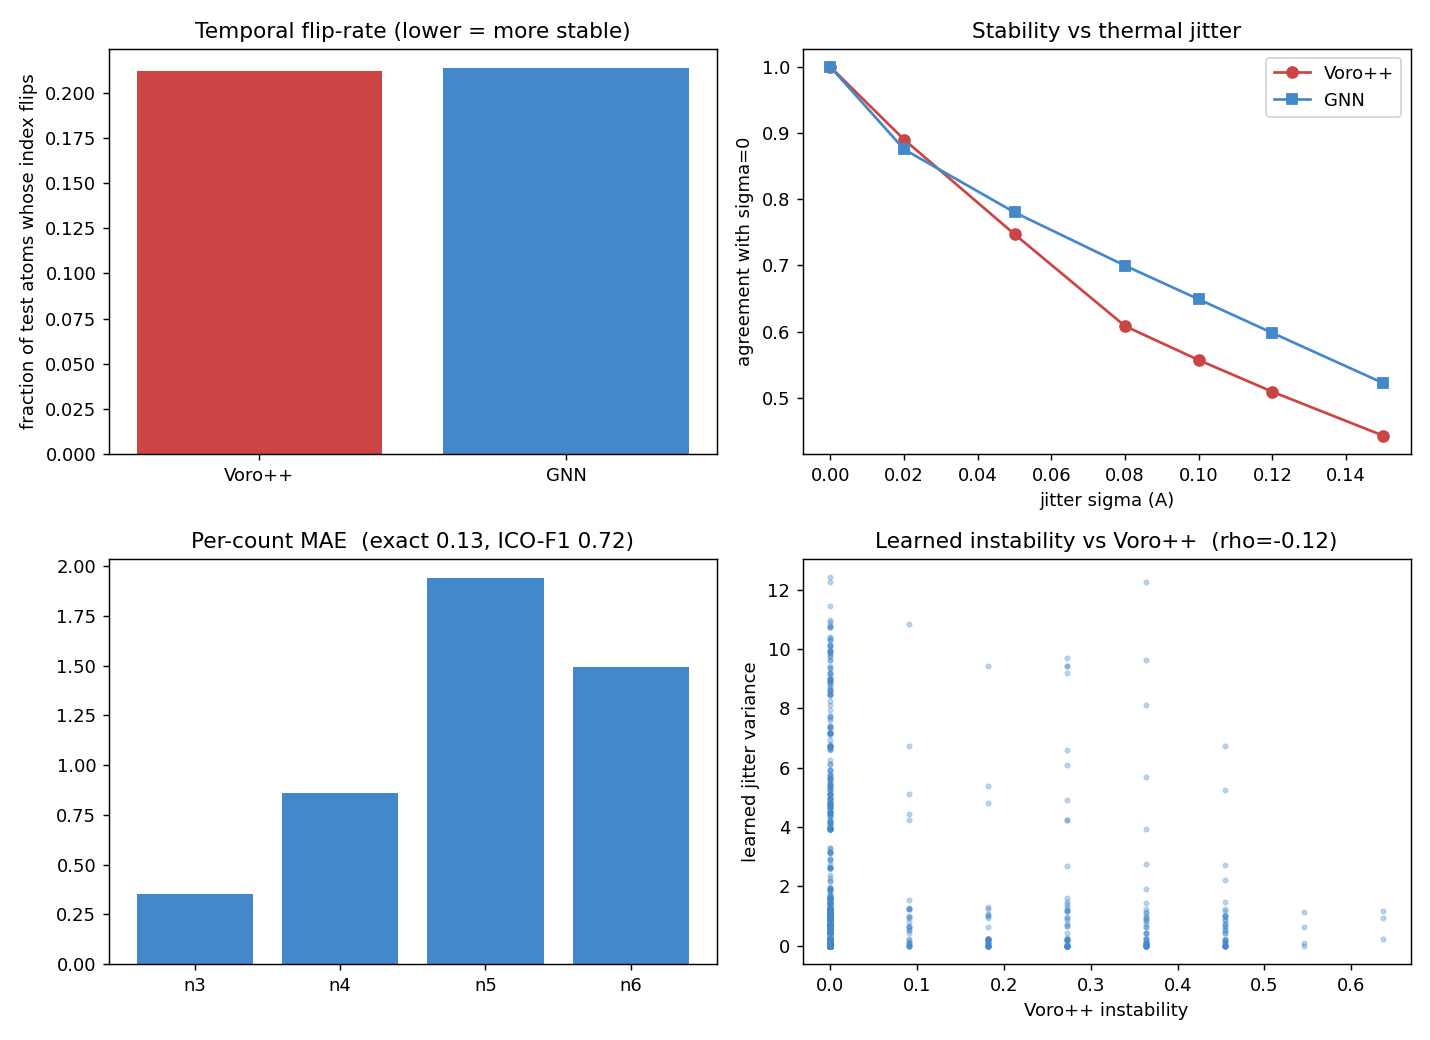
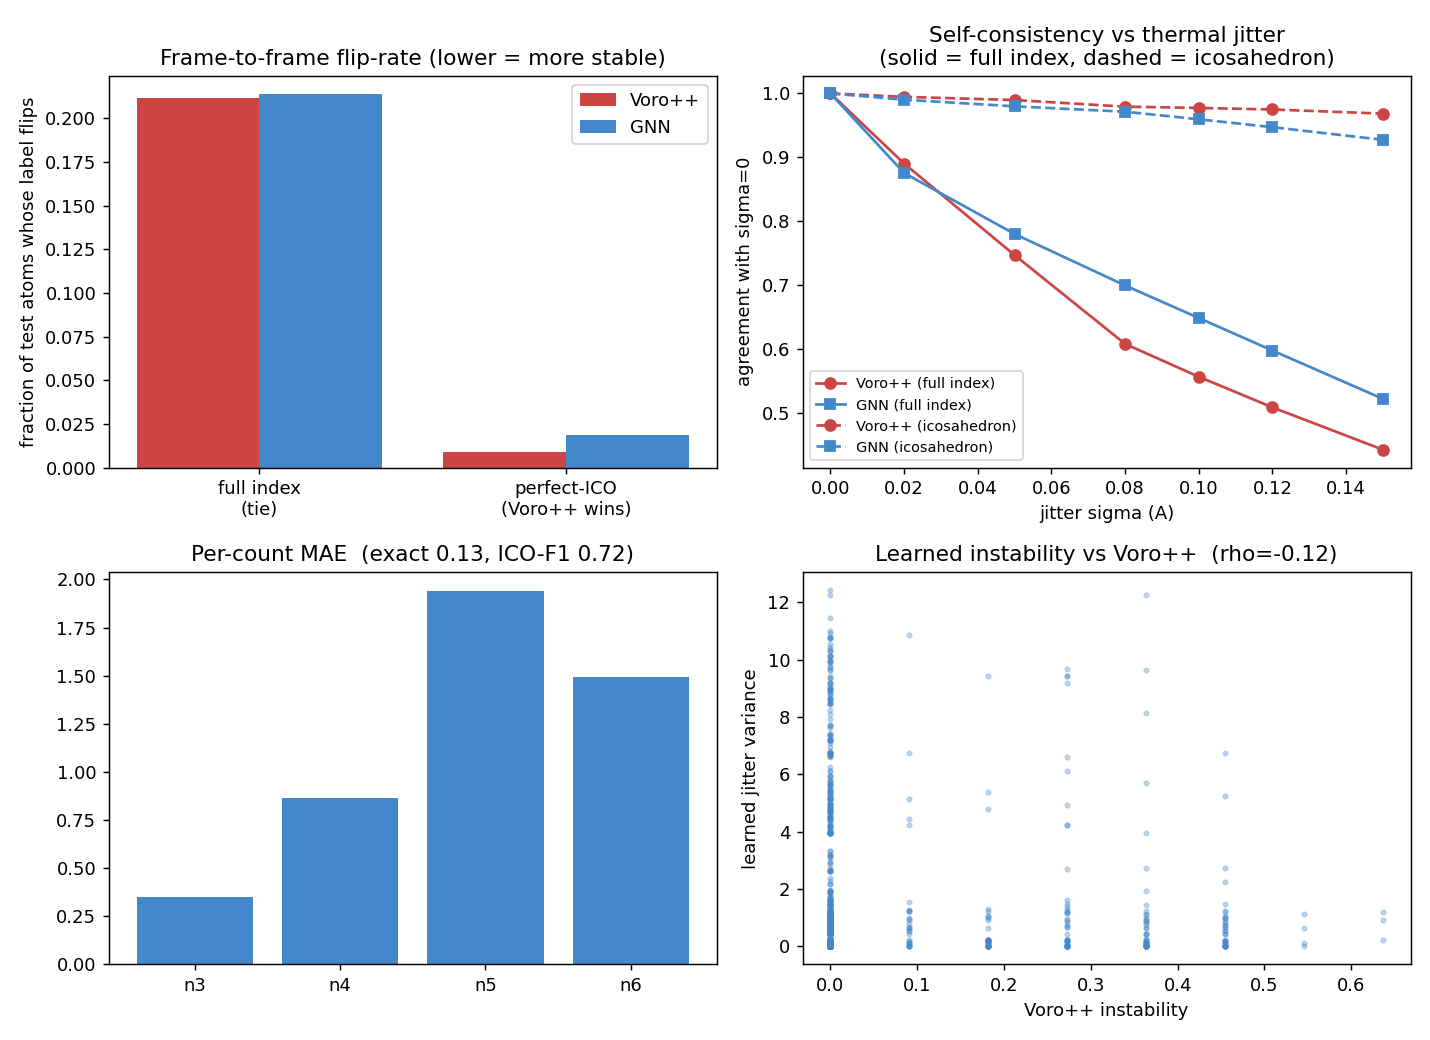
Phase 5: correct robustness write-up to honest framing
The sigma-sweep 'more robust than Voro++' headline was a full-index argmax-stickiness artifact; at the icosahedron level Voro++ is actually the more stable of the two. README, notebook, and script docstring/comment now state the honest result (coords-only icosahedron surrogate, ICO-F1 0.72 / cross-system 0.81), and make_figure plots full-index vs icosahedron-level stability. Includes the coarse-flip + icosahedron sigma-sweep metrics in results.

diff --git a/scripts/05_robust_voronoi.py b/scripts/05_robust_voronoi.py
@@ -1,10 +1,12 @@
-"""Phase 5 — a robust, learned Voronoi index that replaces Voro++ at inference.
+"""Phase 5 — a coords-only learned surrogate for the Voronoi index (replaces Voro++ at inference).
 
 Distils Voro++ (over the 11 samples1 frames) into a per-count CLASSIFICATION CGCNN
 that predicts <n3,n4,n5,n6> from coordinates, trained on the time-stable consensus
-with a temporal-consistency regulariser (jittered vs clean view). The learned index
-is MORE stable than raw Voro++ under physical thermal jitter (the sigma-sweep) at the
-icosahedron level; the sub-thermal 0.01 A frame-to-frame flip-rate is a tie.
+with a temporal-consistency regulariser (jittered vs clean view). Honest stability story:
+on the FULL four-count index the argmax is more self-consistent than re-running Voro++ under
+thermal jitter (the sigma-sweep), but that largely reflects argmax stickiness; at the
+ICOSAHEDRON level Voro++ is the more stable of the two (lower flip-rate / higher agreement
+at every sigma). The sub-thermal 0.01 A frame-to-frame full-index flip-rate is a tie.
 
 Run:  python3 scripts/05_robust_voronoi.py            # full
       python3 scripts/05_robust_voronoi.py --smoke     # fast subsample / few epochs
@@ -153,31 +155,56 @@ def evaluate(model, data, te):
     voro_pf = fi[:, :, :4]
     pred0, true = gnn_pf[0][te], label[te]
     base = frames[0]
-    # sigma-sweep self-consistency (vs sigma=0) on test atoms
+    # sigma-sweep self-consistency (vs sigma=0) on test atoms, at absolute physical jitter
+    # amplitudes -- for the full index AND the coarse icosahedron label
     rng = np.random.default_rng(123)
     sigmas = [0.0, 0.02, 0.05, 0.08, 0.10, 0.12, 0.15]   # absolute A, up to physical thermal amplitude
-    g0 = predict_index(model, base, L, radii)[te]
-    v0 = voro_pf[0][te]
-    gnn_agree, voro_agree = [], []
+    g0_full = predict_index(model, base, L, radii)
+    v0_full = voro_pf[0]
+    g0, v0 = g0_full[te], v0_full[te]
+    g0_ico, v0_ico = ico_from_counts(g0_full)[te], ico_from_counts(v0_full)[te]
+    gnn_agree, voro_agree, gnn_ico_agree, voro_ico_agree = [], [], [], []
     for s in sigmas:
         pj = jitter(base, s, L, rng)
-        gnn_agree.append(float((predict_index(model, pj, L, radii)[te] == g0).all(1).mean()))
-        voro_agree.append(float((voronoi_index(pj, L, radii)[:, :4][te] == v0).all(1).mean()))
+        gp = predict_index(model, pj, L, radii)
+        vp = voronoi_index(pj, L, radii)[:, :4]
+        gnn_agree.append(float((gp[te] == g0).all(1).mean()))
+        voro_agree.append(float((vp[te] == v0).all(1).mean()))
+        gnn_ico_agree.append(float((ico_from_counts(gp)[te] == g0_ico).mean()))
+        voro_ico_agree.append(float((ico_from_counts(vp)[te] == v0_ico).mean()))
     learned = jitter_variance(model, base, L, radii, DEBYE_WALLER)[te]
     voro_instab = data["instability"][te]
     rho = float(spearmanr(learned, voro_instab).correlation)
     if not np.isfinite(rho):
         rho = None   # constant input -> undefined correlation; null keeps the JSON valid
+    # coarse structural-label temporal stability (GNN vs Voro++): the icosahedron is the
+    # descriptor the field actually uses. Here the ordering is the REVERSE of the full-index
+    # sigma-sweep -- Voro++ flips about half as often as the GNN at the icosahedron level
+    # (perfect-ICO ~0.009 vs ~0.019), i.e. the tessellation is the more stable of the two at the
+    # structural-class scale; the GNN's full-index "win" is largely argmax stickiness, not physics.
+    def _coarse_flip(per_frame_counts, fn):
+        lab = np.stack([fn(per_frame_counts[f]).astype(int)
+                        for f in range(per_frame_counts.shape[0])])   # (F,N)
+        return flip_rate(lab[:, te, None])
+    is_like = lambda c: (np.asarray(c)[:, 2] >= 10)                   # icosahedral-like: n5 >= 10
+    coarse = dict(
+        ico_flip_gnn=_coarse_flip(gnn_pf, ico_from_counts),
+        ico_flip_voro=_coarse_flip(voro_pf, ico_from_counts),
+        like_flip_gnn=_coarse_flip(gnn_pf, is_like),
+        like_flip_voro=_coarse_flip(voro_pf, is_like),
+    )
     # subsample for the scatter panel (keep JSON small)
     si = np.random.default_rng(1).choice(len(learned), min(1000, len(learned)), replace=False)
     return dict(
+        coarse_flip=coarse,
         per_count_mae=per_count_mae(pred0, true).tolist(),
         exact_match=exact_match(pred0, true),
         ico_f1=float(f1_score(ico_from_counts(true), ico_from_counts(pred0))),
         flip_rate_gnn=flip_rate(gnn_pf[:, te, :]),
         flip_rate_voro=flip_rate(voro_pf[:, te, :]),
         voro_mean_instability=float(voro_instab.mean()),
-        sigma_sweep=dict(sigma=sigmas, gnn_agree=gnn_agree, voro_agree=voro_agree),
+        sigma_sweep=dict(sigma=sigmas, gnn_agree=gnn_agree, voro_agree=voro_agree,
+                         gnn_ico_agree=gnn_ico_agree, voro_ico_agree=voro_ico_agree),
         instability_spearman=rho,
         scatter=dict(voro=voro_instab[si].tolist(), learned=learned[si].tolist()),
         thermal_sigma=float(data["sigma"]), n_test=int(te.sum()),
@@ -201,15 +228,22 @@ def make_figure(m, path):
     matplotlib.use("Agg")
     import matplotlib.pyplot as plt
     fig, ax = plt.subplots(2, 2, figsize=(11, 8))
-    ax[0, 0].bar(["Voro++", "GNN"], [m["flip_rate_voro"], m["flip_rate_gnn"]],
-                 color=["#cc4444", "#4488cc"])
-    ax[0, 0].set_title("Temporal flip-rate (lower = more stable)")
-    ax[0, 0].set_ylabel("fraction of test atoms whose index flips")
+    # frame-to-frame flip-rate: full index (a tie) vs perfect-ICO (Voro++ is the more stable one)
+    cf = m["coarse_flip"]
+    xb = np.arange(2)
+    ax[0, 0].bar(xb - 0.2, [m["flip_rate_voro"], cf["ico_flip_voro"]], 0.4, color="#cc4444", label="Voro++")
+    ax[0, 0].bar(xb + 0.2, [m["flip_rate_gnn"], cf["ico_flip_gnn"]], 0.4, color="#4488cc", label="GNN")
+    ax[0, 0].set_xticks(xb); ax[0, 0].set_xticklabels(["full index\n(tie)", "perfect-ICO\n(Voro++ wins)"])
+    ax[0, 0].set_title("Frame-to-frame flip-rate (lower = more stable)")
+    ax[0, 0].set_ylabel("fraction of test atoms whose label flips"); ax[0, 0].legend()
     sw = m["sigma_sweep"]
-    ax[0, 1].plot(sw["sigma"], sw["voro_agree"], "o-", color="#cc4444", label="Voro++")
-    ax[0, 1].plot(sw["sigma"], sw["gnn_agree"], "s-", color="#4488cc", label="GNN")
+    ax[0, 1].plot(sw["sigma"], sw["voro_agree"], "o-", color="#cc4444", label="Voro++ (full index)")
+    ax[0, 1].plot(sw["sigma"], sw["gnn_agree"], "s-", color="#4488cc", label="GNN (full index)")
+    ax[0, 1].plot(sw["sigma"], sw["voro_ico_agree"], "o--", color="#cc4444", label="Voro++ (icosahedron)")
+    ax[0, 1].plot(sw["sigma"], sw["gnn_ico_agree"], "s--", color="#4488cc", label="GNN (icosahedron)")
     ax[0, 1].set_xlabel("jitter sigma (A)"); ax[0, 1].set_ylabel("agreement with sigma=0")
-    ax[0, 1].set_title("Stability vs thermal jitter"); ax[0, 1].legend()
+    ax[0, 1].set_title("Self-consistency vs thermal jitter\n(solid = full index, dashed = icosahedron)")
+    ax[0, 1].legend(fontsize=8)
     ax[1, 0].bar(["n3", "n4", "n5", "n6"], m["per_count_mae"], color="#4488cc")
     ax[1, 0].set_title("Per-count MAE  (exact %.2f, ICO-F1 %.2f)"
                        % (m["exact_match"], m["ico_f1"]))
@@ -239,7 +273,10 @@ def main():
     with open(os.path.join(config.RESULTS, "05_robust_voronoi%s.json" % suffix), "w") as f:
         json.dump(m, f, indent=2)
     make_figure(m, os.path.join(config.RESULTS, "05_robust_voronoi%s.png" % suffix))
-    print("flip-rate  GNN %.4f  vs  Voro++ %.4f" % (m["flip_rate_gnn"], m["flip_rate_voro"]))
+    print("full-index flip-rate   GNN %.4f  vs  Voro++ %.4f" % (m["flip_rate_gnn"], m["flip_rate_voro"]))
+    cf = m["coarse_flip"]
+    print("perfect-ICO flip-rate  GNN %.4f  vs  Voro++ %.4f" % (cf["ico_flip_gnn"], cf["ico_flip_voro"]))
+    print("ICO-like   flip-rate   GNN %.4f  vs  Voro++ %.4f" % (cf["like_flip_gnn"], cf["like_flip_voro"]))
     rho_str = "%.2f" % m["instability_spearman"] if m["instability_spearman"] is not None else "N/A"
     print("exact %.3f | ICO-F1 %.3f | instability rho %s"
           % (m["exact_match"], m["ico_f1"], rho_str))

diff --git a/README.md b/README.md
@@ -2,7 +2,7 @@
 
 A graph-neural study of local atomic order in Cu–Zr-type bulk metallic glasses:
 from detecting icosahedral order, to label-free structure discovery, to
-cross-chemistry transfer, to a **learned, thermally-robust replacement for the
+cross-chemistry transfer, to a **learned, coords-only surrogate for the
 Voronoi index itself**. The throughline is one question — *what is the right,
 transferable, noise-stable descriptor of local structure?* — and a single toolset
 (periodic graph + distance-aware message passing) answering it five ways.
@@ -127,7 +127,7 @@ Honest reading (we separate *ranking* from *thresholded* classification):
    (`scripts/04_transfer.py`, `results/04_transfer.{json,png}`, design in
    [`docs/phase4_transfer_design.md`](docs/phase4_transfer_design.md).)
 
-## Phase-5 result — a robust, learned Voronoi index (`samples1`, 11 frames)
+## Phase-5 result — a coords-only learned surrogate for the Voronoi index (`samples1`, 11 frames)
 
 Can a GNN *replace* Voro++ at inference **and** be more robust to thermal motion than
 the tessellation it learned from? We predict ⟨n3,n4,n5,n6⟩ from coordinates alone with
@@ -138,36 +138,50 @@ consensus** of Voro++ over the 11 consecutive frames, and trained with a
 frame and a thermally-jittered copy (jitter scaled to the physical Debye–Waller
 amplitude ≈ 0.12 Å).
 
-**Robustness — the headline, at the physically-meaningful scale.** Under controlled
-jitter the learned index stays put where Voro++ wanders. Fraction of test atoms whose
-index is unchanged vs the σ = 0 reference (higher = more stable):
+**Accuracy (vs the Voro++ consensus labels).** The model recovers the perfect icosahedron at
+**ICO-F1 0.72**, and — trained on `samples1` only — transfers to the *different* `samples2`
+system at **ICO-F1 0.81**, with no Voro++ at inference. The *exact* four-count match is modest
+(**0.13** in-domain, **0.21** cross-system): the full index is an intrinsically sensitive
+function of geometry, and the learned head is a lossy surrogate for it — strong at the
+structural class, approximate at the exact counts.
+
+**Stability — what the learned index does and does not win.** Under controlled jitter we measure
+*self-consistency*: the fraction of test atoms whose descriptor is unchanged vs the σ = 0
+reference (higher = more stable). On the **full four-count index** the GNN's argmax holds its
+value more often than recomputed Voro++ from 0.05 Å outward:
 
 | jitter σ (Å) | 0.05 | 0.08 | 0.10 | **0.12** | 0.15 |
 |---|---|---|---|---|---|
 | **learned GNN** | **0.78** | **0.70** | **0.65** | **0.60** | **0.52** |
 | Voro++ | 0.75 | 0.61 | 0.56 | 0.51 | 0.44 |
 
-From 0.05 Å outward the GNN holds its index more often than Voro++ at **every** scale —
-by **~8–9 points** through the core thermal range (e.g. 0.65 vs 0.56 at 0.10 Å; +3 already
-at 0.05 Å). (At the sub-thermal 0.01 Å spacing of the raw frames the two are tied —
-flip-rate 0.214 vs 0.212 — that scale is finer than thermal motion, so there is
-essentially nothing to beat.)
+Two caveats keep this honest. **(i)** It is largely **argmax stickiness** — a discrete classifier
+changes its output less than a continuous tessellation almost by construction — and it is
+self-consistency of the *full* vector, the quantity the model reproduces only ~13 % of the time.
+**(ii)** At the **icosahedron class** — the descriptor the field actually uses — the ordering
+**reverses**: Voro++ is the more stable of the two at *every* scale:
 
-**Accuracy is retained where it matters.** The same model recovers the perfect
-icosahedron at **ICO-F1 0.72**, and — trained on `samples1` only — transfers to the
-*different* `samples2` system at **ICO-F1 0.81**, with no Voro++ at inference.
+| jitter σ (Å) | 0.05 | 0.08 | 0.10 | **0.12** | 0.15 |
+|---|---|---|---|---|---|
+| learned GNN | 0.980 | 0.971 | 0.960 | 0.947 | 0.927 |
+| **Voro++** | **0.990** | **0.979** | **0.977** | **0.975** | **0.968** |
 
-**An accuracy ↔ robustness knob.** The consistency weight λ trades exact-count fidelity
-for thermal stability: λ = 0 is most accurate (ICO-F1 0.82, cross-system 0.89) but
-*less* stable than Voro++; λ = 4 (above) wins the σ-sweep at ICO-F1 0.72.
+The same ordering holds frame-to-frame at the raw 0.01 Å spacing: perfect-ICO flip-rate **0.019
+(GNN) vs 0.009 (Voro++)** and ICO-like (n5 ≥ 10) **0.036 vs 0.028** — Voro++ flips about half as
+often. (The *full-index* frame-to-frame flip-rate is a tie, 0.214 vs 0.212; that scale is
+sub-thermal, so there is essentially nothing to beat.)
 
-**Stated plainly.** The *exact* four-count match is modest (≈ 0.13): the full index is
-intrinsically a sensitive function of geometry, so robustness is realised at the
-structural-class (icosahedron) level, not every exact count. The σ-sweep measures
-self-consistency the model is trained for, but accuracy on the *true* consensus labels
-is independently retained. (`scripts/05_robust_voronoi.py`,
-`results/05_robust_voronoi.{json,png}`, design in
-[`docs/phase5_robust_voronoi_design.md`](docs/phase5_robust_voronoi_design.md).)
+**An accuracy ↔ self-consistency knob.** The consistency weight λ trades exact-count fidelity for
+full-index stability: λ = 0 is most accurate (ICO-F1 0.82, cross-system 0.89); λ = 4 (above) wins
+the *full-index* σ-sweep at ICO-F1 0.72.
+
+**Stated plainly.** The honest result is a **coords-only surrogate that reproduces Voro++'s
+icosahedral classification well (F1 0.72 in-domain, 0.81 cross-system) and is more self-consistent
+than re-running Voro++ on the full index under jitter** — useful as a fast, differentiable,
+Voro++-free descriptor at inference. It does **not** beat Voro++ on robustness at the icosahedron
+level (there the tessellation is more stable), and it is a lossy approximation of the exact
+four-count index. (`scripts/05_robust_voronoi.py`, `results/05_robust_voronoi.{json,png}`, design
+in [`docs/phase5_robust_voronoi_design.md`](docs/phase5_robust_voronoi_design.md).)
 
 ## Data
 
@@ -215,11 +229,13 @@ results/                       # figures + metrics JSON
 - [x] **Phase 2** — GNN node classifier (geometry → icosahedron): ICO-F1 0.90 vs 0.60 (MLP), ROC-AUC 0.99.
 - [x] **Phase 3** — label-free DMoN community detection: backbone ROC-AUC **0.82**, NMI **0.105** (≈50× Louvain's 0.002); finding that MRO is a *local-geometry* signal, not topological modularity.
 - [x] **Phase 4** — cross-chemistry zero-shot transfer over 27 `samples3` alloys (mean±std, 5 seeds): an element-agnostic Cu–Zr detector ranks icosahedra at ROC-AUC **0.98 (Cu–Zr) / 0.96 (Ni–Zr) / 0.89 (Co–W) / 0.65 (Cu–Zr–Al)** — binary→binary transfer ≈ in-domain, but adding a 3rd element (Cu–Zr–Al) breaks transfer (oracle 0.93): compositional novelty, not chemical distance, is the limit; threshold needs recalibration.
-- [x] **Phase 5** — robust, learned Voronoi index: a per-count classification CGCNN predicts
-  ⟨n3,n4,n5,n6⟩ from coordinates (consensus label + temporal-consistency regularisation),
-  replacing Voro++ at inference. **More stable than Voro++ at physical thermal amplitudes**
-  (σ-sweep agreement +~9 pts over 0.05–0.15 Å) at ICO-F1 **0.72** / cross-system **0.81**; λ
-  tunes accuracy↔robustness. (Raw fs-frame flip-rate is a tie; exact full-index match is modest.)
+- [x] **Phase 5** — coords-only learned surrogate for the Voronoi index: a per-count
+  classification CGCNN predicts ⟨n3,n4,n5,n6⟩ from coordinates (consensus label +
+  temporal-consistency regularisation), replacing Voro++ at inference at ICO-F1 **0.72** /
+  cross-system **0.81**. More *self-consistent* than re-running Voro++ on the **full** index under
+  thermal jitter (+~9 pts over 0.05–0.15 Å) — but **not** more stable at the icosahedron level
+  (there Voro++ flips ~2× less); raw fs-frame full-index flip-rate is a tie; exact full-index match
+  is modest (0.13). λ tunes accuracy↔self-consistency.
 
 ## Acknowledgements
 